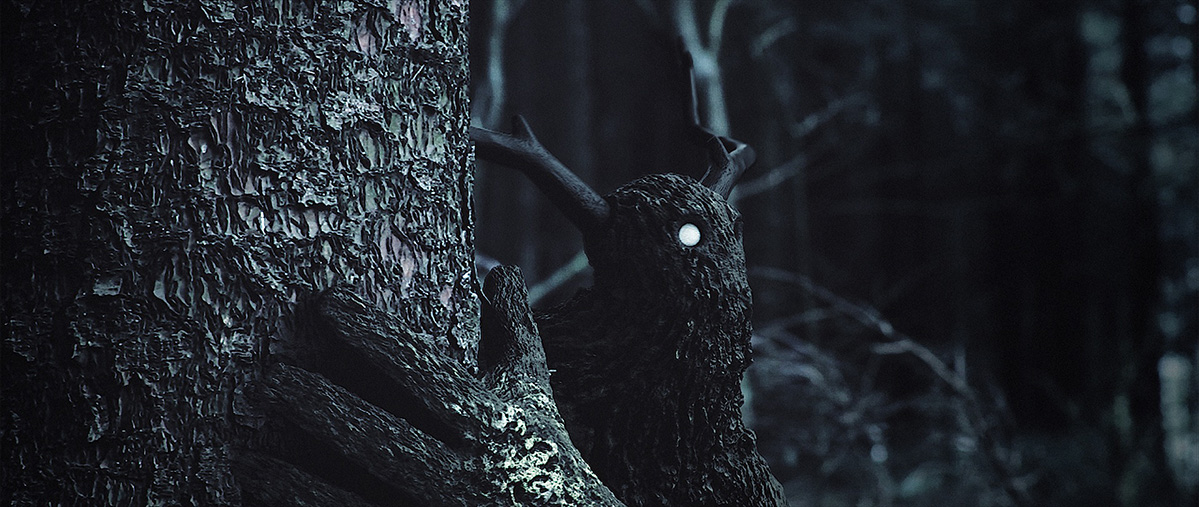
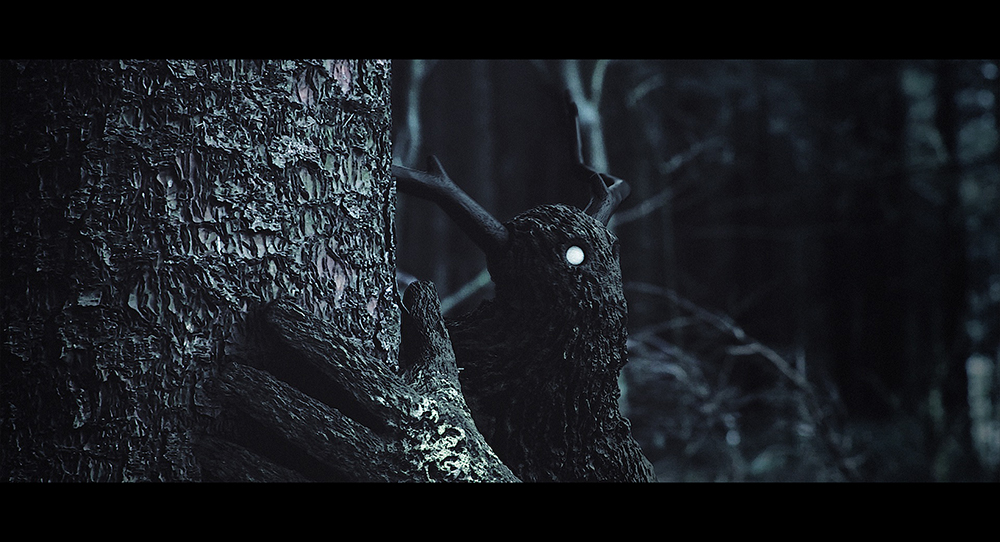
gloam anamorphic image ratio.

diff --git a/info.html b/info.html
@@ -56,7 +56,7 @@
 
                 <p>After graduating with first class honors, I was lucky enough to join award winning digital design agency magneticNorth as a designer and worked on projects for Arup, The Co&#45;operative, Channel 4, Reuters and The BBC.</p>
                 <p>As a way of sharpening skills and bearing new ones, I champion side projects in both app publishing and directing short films.</p>
-                <p>Fundementally, I'm interested in human behaviour, provoking emotions in unexpected ways and taking the alternative route to surprise and delight. My work has even made my mum cry once. Sorry Mum.</p>
+                <p>Fundamentally, I'm interested in human behaviour, provoking emotions in unexpected ways and taking the alternative route to surprise and delight. My work has even made my mum cry once. Sorry Mum.</p>
 
                 <h2>Featured</h2>
                 <ul class="contact">
